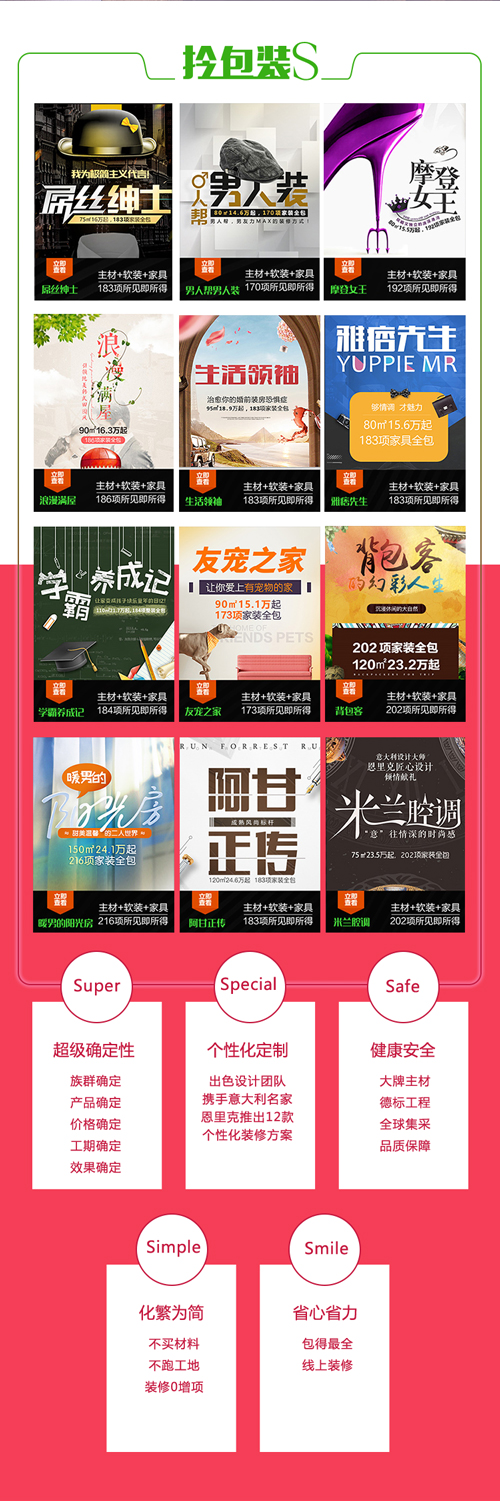
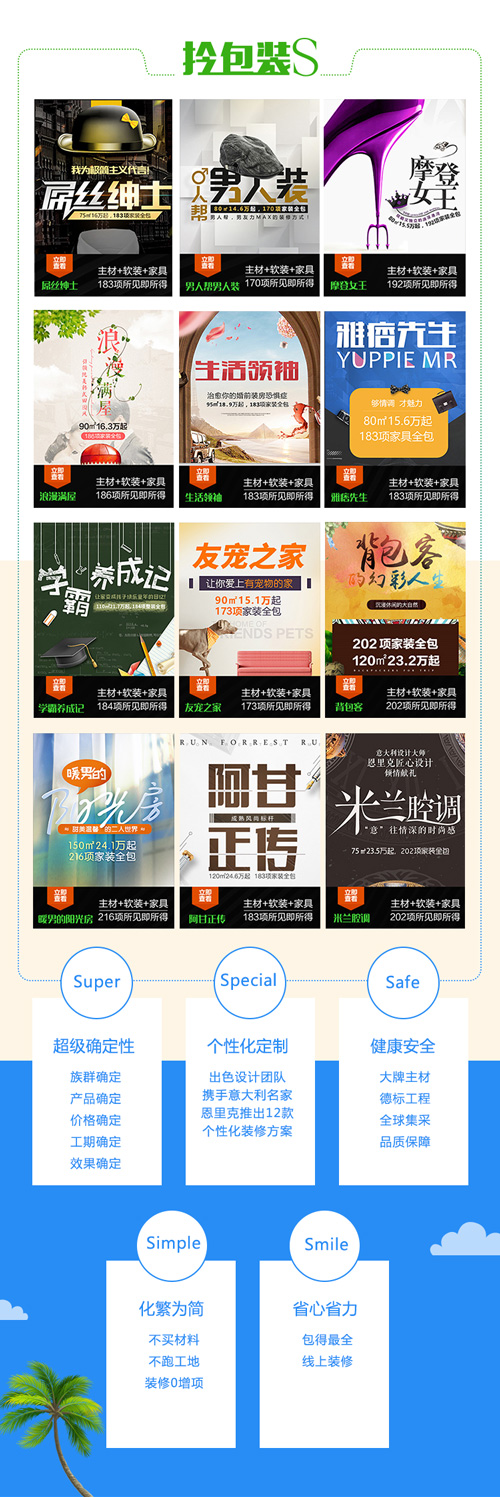
上线7月活动 手机 pc端

diff --git a/res/css/carnival.css b/res/css/carnival.css
@@ -8,35 +8,37 @@ html,body{margin:0;padding:0;}
 html,body{font-family:microsoft yahei;background-color:#f4f4f4;}
 
 .img_span{display:inline-block;padding:20px;background-color:#fff;}
-.carnivalOK.div1{color:#fff;height:787px;background:url('../images/carnival/ok_bg.jpg') no-repeat center center;}
+.carnivalOK.div1{color:#000000;height:787px;background:url('../images/carnival/ok_bg.jpg') no-repeat center center;}
 .carnivalOK.div1 .content{width:900px;margin:0 auto;text-align:center;}
-.carnivalOK.div1 .title{text-align:center;display:inline-block;font-size:26px;margin:132px auto 117px;}
+.carnivalOK.div1 .title{color:#f02c75;text-align:center;display:inline-block;font-size:26px;margin:132px auto 117px;}
 .carnivalOK.div1 .left{float:left;font-size:20px;line-height:50px;}
 .carnivalOK.div1 .text1{font-size:20px;line-height:70px;margin:25px 0;}
 .carnivalOK.div1 .text2{font-size:16px;line-height:46px;}
 .carnivalOK.div1 .right{float:right;width:520px;text-align:left;}
 .carnivalOK.div1 .overflow{overflow:hidden;}
-.carnivalOK.div1 .a_btn1{color:#ffec01;text-decoration:underline;}
-.carnivalOK.div1 .a_btn2{font-size:24px;color:#ffec01;}
+.carnivalOK.div1 .a_btn1{color:#f02c75;text-decoration:underline;}
+.carnivalOK.div1 .a_btn2{font-size:24px;color:#f02c75;}
 
 /*  */
 .carnival.div1{position:relative;height:1372px;background:url('../images/carnival/top_bg.jpg') no-repeat center center;}
-.carnival.div1 .box1{color:#fff;position:absolute;bottom:350px;left:0;right:0;margin:0 auto;width:1047px;height:375px;background:url('../images/carnival/div1_img1.png') no-repeat center center;}
-.carnival.div1 .box1 .title1{font-size:24px;margin-top:76px;margin-left:89px;}
-.carnival.div1 .box1 .title2{font-size:24px;margin-top:84px;margin-left:89px;}
-.carnival.div1 .box1 .text{margin:37px 89px 0;font-size:18px;line-height:30px;}
+.carnival.div1 .box1{color:#000000;position:absolute;bottom:350px;left:0;right:0;margin:0 auto;width:1047px;height:375px;background:url('../images/carnival/div1_img1.png') no-repeat center center;}
+.carnival.div1 .box1 .title1{font-size:24px;margin-top:98px;margin-left:89px;}
+.carnival.div1 .box1 .m_color{color:#ff187f;}
+.carnival.div1 .box1 .title2{color:#ff187f;font-size:24px;margin-top:35px;margin-left:89px;}
+.carnival.div1 .box1 .text{margin:18px 89px 0;font-size:18px;line-height:30px;}
 .carnival.div1 .box2{width:920px;position:absolute;bottom:67px;left:0;right:0;margin:0 auto;}
-.carnival.div1 .box2 .ul{font-size:24px;color:#fff;overflow:hidden;}
+.carnival.div1 .box2 .ul{font-size:24px;color:#ff187f;overflow:hidden;}
 .carnival.div1 .box2 .ul li{float:left;text-align:right;display:inline-block;margin-bottom:20px;width:50%;}
-.carnival.div1 .box2 .ul .input_common{font-size:20px;display:inline-block;vertical-align:middle;width:300px;height:40px;line-height:40px;padding-left:3px;}
+.carnival.div1 .box2 .ul .input_common{border:1px solid #eae9ea;font-size:20px;display:inline-block;vertical-align:middle;width:300px;height:40px;line-height:40px;padding-left:3px;}
 .carnival.div1 .box2 .btn_div{text-align:center;}
-.carnival.div1 .box2 .btn_div .a_btn{border-radius:30px;margin:20px auto 0;font-size:20px;color:#000;display:block;background-color:#ffec01;width:250px;height:50px;line-height:50px;text-align:center;}
+.carnival.div1 .box2 .btn_div .a_btn{border-radius:30px;margin:20px auto 0;font-size:20px;color:#fff;display:block;background-color:#ff187f;width:250px;height:50px;line-height:50px;text-align:center;}
 /*  */
-.carnival.div2{height:726px;padding-top:45px;}
+.carnival.div2{height:760px;padding-top:45px;}
 .carnival.div2 .content{width:1123px;margin:0 auto;} 
-.carnival.div2 .img_list{overflow:hidden;}
-.carnival.div2 .img_list .img{float:left;margin-top:67px;display:inline-block;vertical-align:top;}
-.carnival.div2 .img_list .img1{margin-right:9px;margin-top:0;}
+.carnival.div2 .img_list{background-color:#fe8010;margin-top:110px;}
+.carnival.div2 .img_list .img_content{width:1123px;margin:0 auto;}
+.carnival.div2 .img_list .img{margin-top:24px;margin-bottom:38px;display:inline-block;vertical-align:top;}
+.carnival.div2 .img_list .img1{margin-right:9px;margin-top:-50px;}
 .carnival.div2 .ul{overflow:hidden;color:#38af15;}
 .carnival.div2 .ul li{border:2px solid #38af15;height:220px;border-radius:10px;text-align:center;float:left;display:inline-block;width:24%;margin-right:9px;margin-top:9px;}
 .carnival.div2 .ul li.last{margin-right:0;}
@@ -56,21 +58,21 @@ html,body{font-family:microsoft yahei;background-color:#f4f4f4;}
 /*  */
 .carnival.div4{position:relative;height:1740px;padding-top:58px;}
 .carnival.div4 .content{position:absolute;bottom:0;right:0;top:58px;left:0;height:1740px;background:url('../images/carnival/div4_bg.png') no-repeat center top;}
-.carnival.div4 .bg{height:1042px;background-color:#f53e57;position:absolute;bottom:0;right:0;left:0;}
+.carnival.div4 .bg{height:1042px;background-color:#fff8e9;position:absolute;bottom:0;right:0;left:0;}
 .carnival.div4 .ul_list{width:1082px;overflow:hidden;position:absolute;top:122px;right:0;left:0;margin:0 auto;}
 .carnival.div4 .ul_list li{text-align:center;float:left;display:inline-block;vertical-align:bottom;padding:12px 6px;}
 .carnival.div4 .ul_list li .img{display:inline-block;margin:0 auto;}
 
 .carnival.div4 .ul{position:absolute;bottom:100px;right:0;left:0;display:block;overflow:hidden;width:1042px;margin:0 auto;}
-.carnival.div4 .ul li{text-align:center;line-height:30px;color:#c5193f;font-size:16px;float:left;display:inline-block;width:180px;margin-right:34px;}
+.carnival.div4 .ul li{text-align:center;line-height:30px;color:#288df5;font-size:16px;float:left;display:inline-block;width:180px;margin-right:34px;}
 .carnival.div4 .ul li.last{margin-right:0;}
 .carnival.div4 .ul li .box{position:relative;z-index:1;height:260px;margin-top:-28px;background-color:#fff;}
-.carnival.div4 .ul li  i{position:relative;z-index:2;display:block;margin:0 auto;font-size:22px;color:#c5193f;text-align:center;width:101px;height:101px;line-height:101px;background:url('../images/carnival/div4_i_bg.png') no-repeat center center;background-size:contain;}
+.carnival.div4 .ul li  i{position:relative;z-index:2;display:block;margin:0 auto;font-size:22px;color:#288df5;text-align:center;width:101px;height:101px;line-height:101px;background:url('../images/carnival/div4_i_bg.png') no-repeat center center;background-size:contain;}
 .carnival.div4 .ul li span.t{display:inline-block;font-size:22px;margin:53px 0 16px;}
-
-
-
-
+.carnival.div4 .background_bottom{position:absolute;bottom:0;left:0;right:0;height:275px;background-color:#288df5;}
+.carnival.div4 .background_bottom .cont{position:relative;height:100%;width:1545px;margin:0 auto;}
+.carnival.div4 .background_bottom .cont .img1{position:absolute;left:0;bottom:0;vertical-align:bottom;}
+.carnival.div4 .background_bottom .cont .img2{position:absolute;right:50px;bottom:0;vertical-align:bottom;}
 
 
 

diff --git a/res/css/common.css b/res/css/common.css
@@ -1832,16 +1832,16 @@ i.radio_common  input,i.check_common input{display:none;}
 dl.sub-left-sec-nav dd.M_hidden{display:none;}
 dl.sub-left-sec-nav dd.M_hidden.M_show{display:block;}
 
-/* 六一儿童节活动 */
+/* 活动 */
 .c_childrenDay_ico{z-index:99999;position:fixed;bottom:0;right:0;left:0;height:150px;}
-.c_childrenDay_ico .bg{position:fixed;bottom:0;right:0;left:0;height:150px;filter:alpha(opacity=50);-moz-opacity:0.5;-khtml-opacity:0.5;opacity: 0.5;background-color:#5c49b7;}
-.c_childrenDay_ico .content{position:relative;width:1295px;margin-left:5%;}
-.c_childrenDay_ico .img{position:absolute;top:-68px;left:0;display:inline-block;width:341px;height:215px;background:url('../images/carnival/c_ico_img.png') no-repeat center top;background-size:contain;}
-.c_childrenDay_ico .ul{display:inline-block;overflow:hidden;margin-top:30px;margin-left:360px;}
-.c_childrenDay_ico .ul li{font-size:18px;color:#fff;float:left;text-align:right;display:inline-block;}
-.c_childrenDay_ico .common_input{margin-left:10px;margin-right:53px;padding-left:3px;width:197px;height:40px;line-height:40px;background-color:#fff;color:#000;}
+.c_childrenDay_ico .bg{position:fixed;bottom:0;right:0;left:0;height:150px;filter:alpha(opacity=85);-moz-opacity:0.85;-khtml-opacity:0.85;opacity: 0.85;background-color:#006cdc;}
+.c_childrenDay_ico .content{position:relative;width:1219px;margin:0 auto;}
+.c_childrenDay_ico .img{position:absolute;top:-188px;left:67px;display:inline-block;width:844px;height:266px;background:url('../images/carnival/c_ico_img.png') no-repeat center top;background-size:contain;}
+.c_childrenDay_ico .ul{display:inline-block;overflow:hidden;margin-top:76px;margin-left:0px;}
+.c_childrenDay_ico .ul li{font-size:18px;color:#fff;float:left;text-align:left;display:inline-block;}
+.c_childrenDay_ico .common_input{margin-left:10px;margin-right:13px;padding-left:3px;width:133px;height:40px;line-height:40px;background-color:#fff;color:#000;}
 .c_childrenDay_ico .common_input1{margin-bottom:17px;}
-.c_childrenDay_ico .common_btn{cursor:pointer;font-size:18px;display:inline-block;margin-left:25px;border-radius:30px;text-align:center;width:181px;height:40px;line-height:40px;background-color:#fff;color:#000;}
+.c_childrenDay_ico .common_btn{cursor:pointer;font-size:18px;display:inline-block;margin-left:25px;border-radius:6px;text-align:center;width:131px;height:40px;line-height:40px;background-color:#fff;color:#000;}
 .c_childrenDay_ico .common_btn.btn1{background-color:#feee39;color:#000;}
 .c_childrenDay_ico .common_btn.btn2{background-color:#fb8500;color:#fff;}
 .c_childrenDay_sbox{display:none;left:0;position:absolute;top:0;width:100%;z-index: 20;}
@@ -1855,6 +1855,6 @@ dl.sub-left-sec-nav dd.M_hidden.M_show{display:block;}
     text-align: center;
     vertical-align: middle;}
 .c_childrenDay_sbox .content .session .img{display: inline-block;
-    position: relative;width: 862px;
-    height: 532px;background:url('../images/c_common_ico_bg.png') no-repeat center top;}
-.c_childrenDay_sbox .a_btn{cursor:pointer;display:block;float:right;width:55px;height:55px;}	
+    position: relative;width: 1400px;
+    height: 532px;background:url('../images/c_common_ico_bg.png') no-repeat center top;background-size:contain;}
+.c_childrenDay_sbox .a_btn{cursor:pointer;display:block;float:right;width:55px;height:55px;margin-right:305px;}	

diff --git a/webapp/activity/common/carnivalOK.css b/webapp/activity/common/carnivalOK.css
@@ -4,18 +4,18 @@ a,a:active{cursor:pointer;outline:none;text-decoration:none;}
 
 html,body{margin:0;padding:0;}
 *{}
-html,body{height:100%;position:relative;font-size:16px;font-family:microsoft yahei;background-color:#f3efec;color:#fff;}
+html,body{height:100%;position:relative;font-size:16px;font-family:microsoft yahei;background-color:#f3efec;color:#000;}
 /* top */
 .main_bg{padding-top:15%;background:url('img/car_bg.jpg') no-repeat top center;background-size:100% 100%;}
 .body_div{margin:0 3%;}
-.header{text-align:center;font-size:26px;color:#fff;}
+.header{text-align:center;font-size:26px;color:#f02c75;}
 .body_div p.text2{display:block;width:50%;margin:0 auto 0;line-height:30px;min-width:212px;}
 .body_div p.text1{width:80%;display:block;margin:0 auto 7%;line-height:30px;min-width:212px;}
 .body_div p.text input{appearance:none;-webkit-appearance: none;display:inline-block;font-size:16px;color:#9b2f53;background:none;border:none;width:80px;}
 .body_div p.text input:active,.body_div p.text input:focus{border:none;}
 .body_div .text_div{padding:3% 0 7%;}
 .body_div img.er_weima{margin:0 auto;width:55%;display:block;}
-.body_div .abtn{color:#ffec01;}
+.body_div .abtn{color:#f02c75;}
 .bottom{position:relative;bottom:0;margin-top:35%;background-color:#8772a9;height:70px;}
 .bottom ul.ul{overflow:hidden;position:absolute;top:-148px;left:0;right:0;}
 .bottom ul.ul li{float:left;display:inline-block;width:50%;height:110px;vertical-align:bottom;}
@@ -25,8 +25,8 @@ select{appearance:none;-webkit-appearance: none;}
 .select_common,.input_common{background:none;border:none;border-bottom:1px solid #fff;width:47%;height:22px;line-height:22px;display:inline-block;}
 .select_common{background:none;background:url('img/down.png') no-repeat 97% center;background-size:auto 40%;}
 
-.common_a_btn{margin:10px auto;color:#000;display:block;width:60%;height:45px;line-height:45px;text-align:center;border-radius:30px;}
-.common_a_btn1{background-color:#ffec01;margin-top:40px;}
+.common_a_btn{margin:10px auto;color:#fff;display:block;width:60%;height:45px;line-height:45px;text-align:center;border-radius:30px;}
+.common_a_btn1{background-color:#f02c75;margin-top:40px;}
 .common_a_btn1:active{background-color:#eedb00;}
 
 .page_div2{padding:24px 0 0;margin-top:38px;}

diff --git a/webapp/activity/common/carnival.css b/webapp/activity/common/carnival.css
@@ -16,28 +16,28 @@ html,body{height:100%;position:relative;font-size:16px;font-family:microsoft yah
 .carnival.div1 .ul li .block{display:block;}
 .carnival.div1 .btn {text-align:center;margin-top:5px;}
 .carnival.div1 .btn  a.btn_a{color:#14032a;display:inline-block;width:84%;margin-top:15px;height:40px;line-height:40px;text-align:center;background-color:#f9ed35;border-radius:30px;}
-.carnival.div1 .bg{background-color:#61030f;position:absolute;top:0;right:0;left:0;bottom:0;z-index:1;
+.carnival.div1 .bg{background-color:#53a2f2;position:absolute;top:0;right:0;left:0;bottom:0;z-index:1;
     /* older safari/Chrome browsers */  
-    -webkit-opacity: 0.2;  
+    -webkit-opacity: 0.9;  
     /* Netscape and Older than Firefox 0.9 */  
-    -moz-opacity: 0.2;  
+    -moz-opacity: 0.9;  
     /* Safari 1.x (pre WebKit!) 老式khtml内核的Safari浏览器*/  
-    -khtml-opacity: 0.2;  
+    -khtml-opacity: 0.9;  
     /* IE9 + etc...modern browsers */  
-    opacity: .2;  
+    opacity: .9;  
     /* IE 4-9 */  
-    filter:alpha(opacity=20);  
+    filter:alpha(opacity=90);  
     /*This works in IE 8 & 9 too*/  
-    -ms-filter:"progid:DXImageTransform.Microsoft.Alpha(Opacity=20)";  
+    -ms-filter:"progid:DXImageTransform.Microsoft.Alpha(Opacity=90)";  
     /*IE4-IE9*/  
-    filter:progid:DXImageTransform.Microsoft.Alpha(Opacity=20); 
+    filter:progid:DXImageTransform.Microsoft.Alpha(Opacity=90); 
 }
 select{appearance:none;-webkit-appearance: none;}
 .select_common,.input_common{color:#fff;background:none;border:none;border-bottom:1px solid #fff;width:47%;height:22px;line-height:22px;display:inline-block;}
 .select_common{background:none;background:url('img/down.png') no-repeat 97% center;background-size:auto 40%;}
 
 /*  */
-.carnival.div1{position:relative;background-color:#f44265;}
+.carnival.div1{position:relative;background-color:#fef5e5;}
 .carnival.div1 .img_header{width:100%;}
 .carnival.div1 .box1{text-align:center;}
 .carnival.div1 .box1 .img{width:100%;margin:0 auto;max-width:500px;}

diff --git a/anjia/index.html b/anjia/index.html
@@ -13,17 +13,22 @@
 	<link href="../res/css/index.css" rel="stylesheet"> 
 </head>
 <body>
-	<!-- <div class="c_childrenDay_ico">
+	<div class="c_childrenDay_ico">
 		<div class="bg"></div>
 		<div class="content">
 			<a class="img"></a>
 			<ul class="ul">
-				<li class="">姓名<span class="color">*</span>：<input  id="userName" type="text" class="name common_input common_input1" /><br>设计师：<input id="designName" type="text" class="name common_input" /></li>
-				<li class="">电话<span class="color">*</span>：<input id="userPhone" type="text" class="name common_input common_input1" /><br>设计师电话：<input id="designPhone" type="text" class="name common_input" /></li>
-				<li class=""><a id="submit_a_btn" index=1 class="common_btn btn1 common_input1">预约</a><br><a class="common_btn btn2">查看活动页面</a></li>
+				<li class="">
+					姓名<span class="color">*</span><input  id="userName" type="text" class="name common_input common_input1" />
+					电话<span class="color">*</span><input id="userPhone" type="text" class="name common_input common_input1" />
+					设计师<input id="designName" type="text" class="name common_input" />
+					设计师电话<input id="designPhone" type="text" class="name common_input" />
+					<a id="submit_a_btn" index=1 class="common_btn btn1 common_input1">预约</a>
+					<a class="common_btn btn2">查看活动页面</a>
+				</li>
 			</ul>
 		</div>
-	</div> -->
+	</div>
 	<div class="header_bg" >
 		<div class="ui-short-head">
 			<div class="ui-wrap">
@@ -188,7 +193,7 @@
 	<script src="../anjia/js/index.js"></script>
 	<script src="js/carnival.js"></script>
 	<!--BAIDU定位JS 开始-->
-	<script type="text/javascript" async="async" src="http://api.map.baidu.com/api?v=2.0&ak=9Z4yvIoj9jnpKfPA4igxxbLP"></script>
+	<script type="text/javascript" src="http://api.map.baidu.com/api?v=2.0&ak=9Z4yvIoj9jnpKfPA4igxxbLP"></script>
 	<script type="text/javascript">
 		$(function(){
 			// 百度地图API功能

diff --git a/anjia/carnival.html b/anjia/carnival.html
@@ -35,7 +35,7 @@
 	<div class="carnival div1">
 		<div class="content">
 			<div class="box1">
-				<p class="title1">活动时间：即日起至6月24日</p>
+				<p class="title1"><span class="m_color">活动时间：</span>即日起至6月24日</p>
 				<p class="title2">活动规则</p>
 				<p class="text">6.18活动期间，预约报名参加活动，并支付1元订金，最终签约生活家装饰任意家装产品并选择燕子安家分期支付，每满5万元，即可享受5千元免息。如：申请分期10万元，36期，其中1万元为免息金额。最终只需支付(10万-1万)*16%=14400的服务费。相比起原先10万*16%=16000的服务费，直接优惠了1600元！</p>
 			</div>
@@ -60,10 +60,6 @@
 	</div>
 	<div class="carnival div2">
 		<div class="content">
-			<div class="img_list">
-				<img src="../res/images/carnival/div2_img1.png" class="img img1" />
-				<img src="../res/images/carnival/div2_img2.png" class="img" />
-			</div>	
 			<ul class="ul">
 				<li>
 					<img src="../res/images/carnival/div2_img11.png" class="img" /><br>
@@ -86,6 +82,12 @@
 					<span class="text2">全球集采国内外一线品牌</span>
 				</li>
 			</ul>
+		</div>
+		<div class="img_list">
+			<div class="img_content">
+				<img width=440 src="../res/images/carnival/div2_img1.png" class="img img1" />
+				<img src="../res/images/carnival/div2_img2.png" class="img" />
+			</div>	
 		</div>
 	</div>
 	<div class="carnival div3">
@@ -110,7 +112,14 @@
 		</div>
 	</div>
 	<div class="carnival div4">
-		<div class="bg"></div>
+		<div class="bg">
+			<div class="background_bottom">
+				<div class="cont">
+					<img class="img1" src="../res/images/carnival/c_bottom_div_img1.png" />
+					<img class="img2" src="../res/images/carnival/c_bottom_div_img2.png" />
+				</div>	
+			</div>
+		</div>
 		<div class="content">
 			<ul class="ul_list">
 				<li><img src="../res/images/carnival/div4_img1.jpg" class="img" /></li>

diff --git a/anjia/staging.html b/anjia/staging.html
@@ -14,17 +14,22 @@
 </head>
 
 <body>
-	<!-- <div class="c_childrenDay_ico">
+	<div class="c_childrenDay_ico">
 		<div class="bg"></div>
 		<div class="content">
 			<a class="img"></a>
 			<ul class="ul">
-				<li class="">姓名<span class="color">*</span>：<input  id="userName" type="text" class="name common_input common_input1" /><br>设计师：<input id="designName" type="text" class="name common_input" /></li>
-				<li class="">电话<span class="color">*</span>：<input id="userPhone" type="text" class="name common_input common_input1" /><br>设计师电话：<input id="designPhone" type="text" class="name common_input" /></li>
-				<li class=""><a id="submit_a_btn" index=1 class="common_btn btn1 common_input1">预约</a><br><a class="common_btn btn2">查看活动页面</a></li>
+				<li class="">
+					姓名<span class="color">*</span><input  id="userName" type="text" class="name common_input common_input1" />
+					电话<span class="color">*</span><input id="userPhone" type="text" class="name common_input common_input1" />
+					设计师<input id="designName" type="text" class="name common_input" />
+					设计师电话<input id="designPhone" type="text" class="name common_input" />
+					<a id="submit_a_btn" index=1 class="common_btn btn1 common_input1">预约</a>
+					<a class="common_btn btn2">查看活动页面</a>
+				</li>
 			</ul>
 		</div>
-	</div>	 -->
+	</div>
 	<div class="ui-short-head">
 		<div class="ui-wrap">
 			<div id="loginstatus" class="head-box">

diff --git a/anjia/js/sbox.js b/anjia/js/sbox.js
@@ -1,0 +1,45 @@
+
+$(document).ready(function(){
+	/*  */	
+		
+	var g = {};
+	g.sbox = Utils.offLineStore.get("sbox",false) || '0';
+	
+	sbox_show();
+	
+	$(".c_childrenDay_sbox .a_btn,.c_childrenDay_sbox .content .session").bind("click",btn_click2);
+	$(".c_childrenDay_sbox .content .session .img,.c_childrenDay_ico .common_btn.btn2").bind("click",url_go);
+	/* 关闭悬浮弹窗 */
+	function btn_click2(){
+		$(this).parents('.c_childrenDay_sbox').fadeOut(300);
+		Utils.offLineStore.set("sbox",'1',false);
+		return false;
+	}
+	/* 跳转页面 */
+	function url_go(){
+		location.href='carnival.html';
+	}
+		/* 判断是不是第一次加载 */
+	function sbox_show(){
+		var html = '';
+			html += '<div class="c_childrenDay_sbox">';
+			html += '<div class="content">';
+			html += '<div class="session">';
+			html += '<div class="img">';
+			html += '<a class="a_btn"></a>';
+			html += '</div></div></div>';
+			html += '<div class="bg"></div>';
+			html += '</div>';
+		if(g.sbox == '0'){
+			$('body').append(html);
+			$(".c_childrenDay_sbox").fadeIn(100);
+		}else{
+			$(".c_childrenDay_sbox").fadeOut(0);
+		}
+		return false;
+	}
+	
+/*  */
+})
+
+

diff --git a/anjia/footer.html b/anjia/footer.html
@@ -48,7 +48,7 @@
 <a id="myModal1" style="display:none;" data-reveal-id="myModal"></a>
 <link rel="stylesheet" href="../res/css/reveal.css">
 <script type="text/javascript" src="../res/js/jquery.reveal.js"></script>
-<!-- <script type="text/javascript" src="js/childrenDay.js"></script> -->
+<script type="text/javascript" src="js/sbox.js"></script>
 <!-- 提示框 弹出 -->
 <div id="myModal" class="reveal-modal">
 	<h1>不再支持由交通银行、招商银行进行的支付</h1>

diff --git a/ajadminwap/res/js/ModifyOrder.js b/ajadminwap/res/js/ModifyOrder.js
@@ -316,7 +316,7 @@ $(function () {
 		 condi.customerCreditInfo = {};
         condi.login_token = g.login_token;
         condi.companyId = g.companyId;
-        condi.designer = g.designer || "";
+        condi.designer = $("#designer").val() || "";
         condi.packageName = $("#packageType").find("option:selected").text();
         condi.orderId = $('#orderId').val() || "";
 		condi.poundageRepaymentType = $('#poundageRepaymentType').val() || "";

diff --git a/anjia/js/carnival.js b/anjia/js/carnival.js
@@ -12,8 +12,8 @@ $(document).ready(function(){
 	$("#submit_a_btn").bind("click",submit_form);
 	$("#chakan_inf").bind("click",chakan_inf_func);
 	$(".c_childrenDay_ico .common_btn.btn2").bind("click",url_go);
-	
 	erWeiMa_func();
+
 	/* 动态生成二维码 */
 	function erWeiMa_func(){
 		if(g.customerCollectId != ""){
